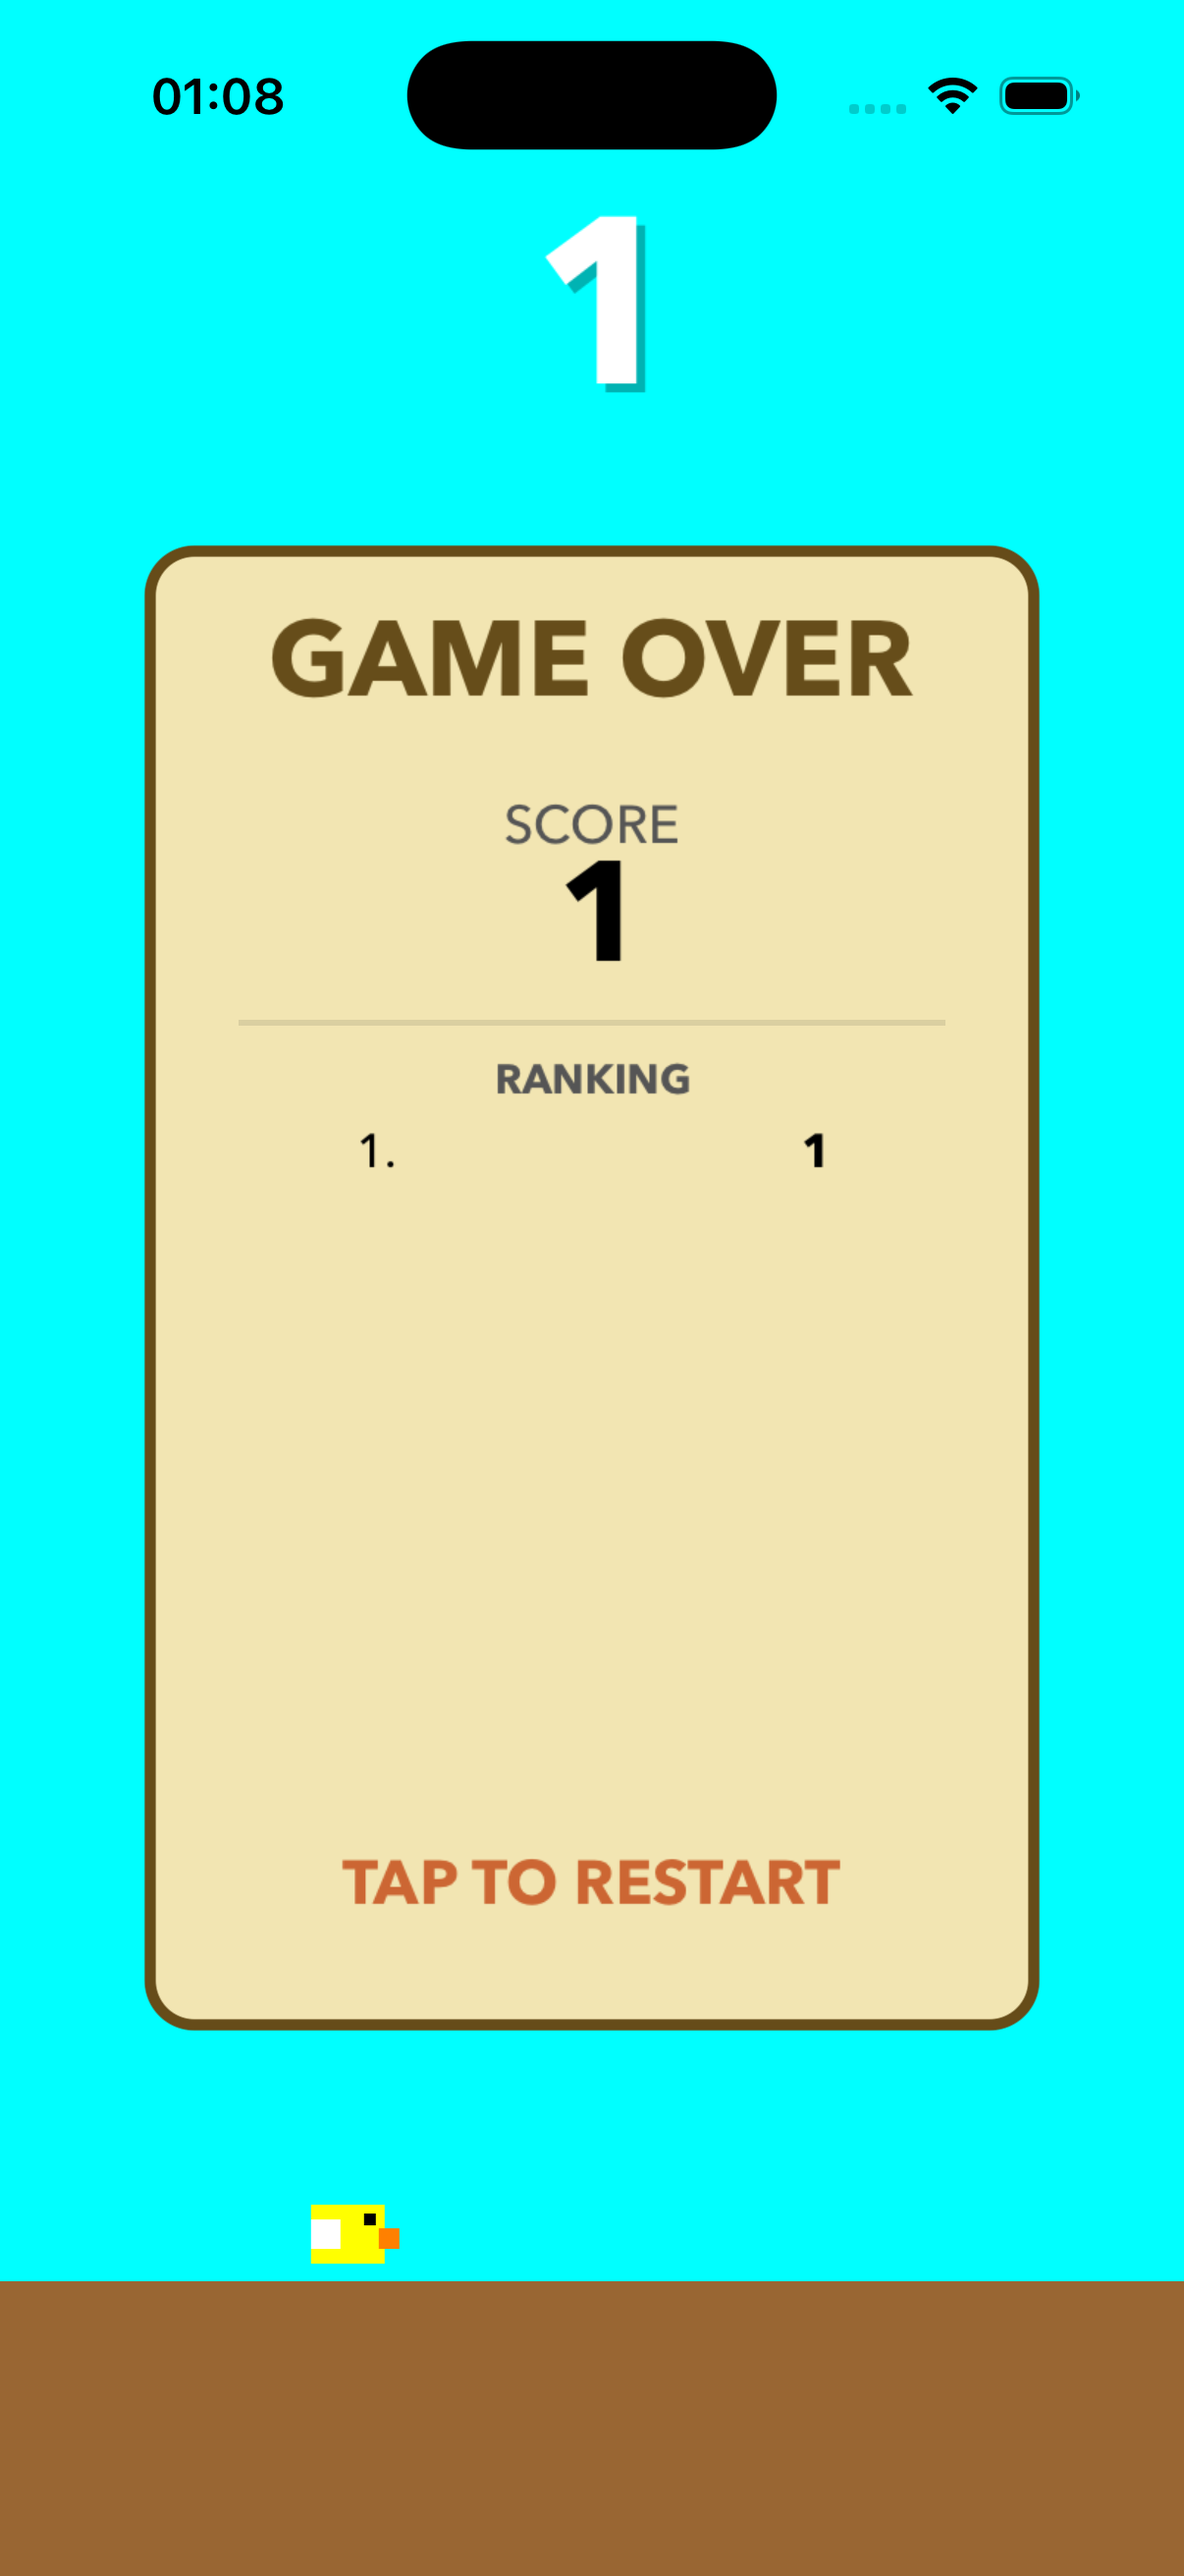
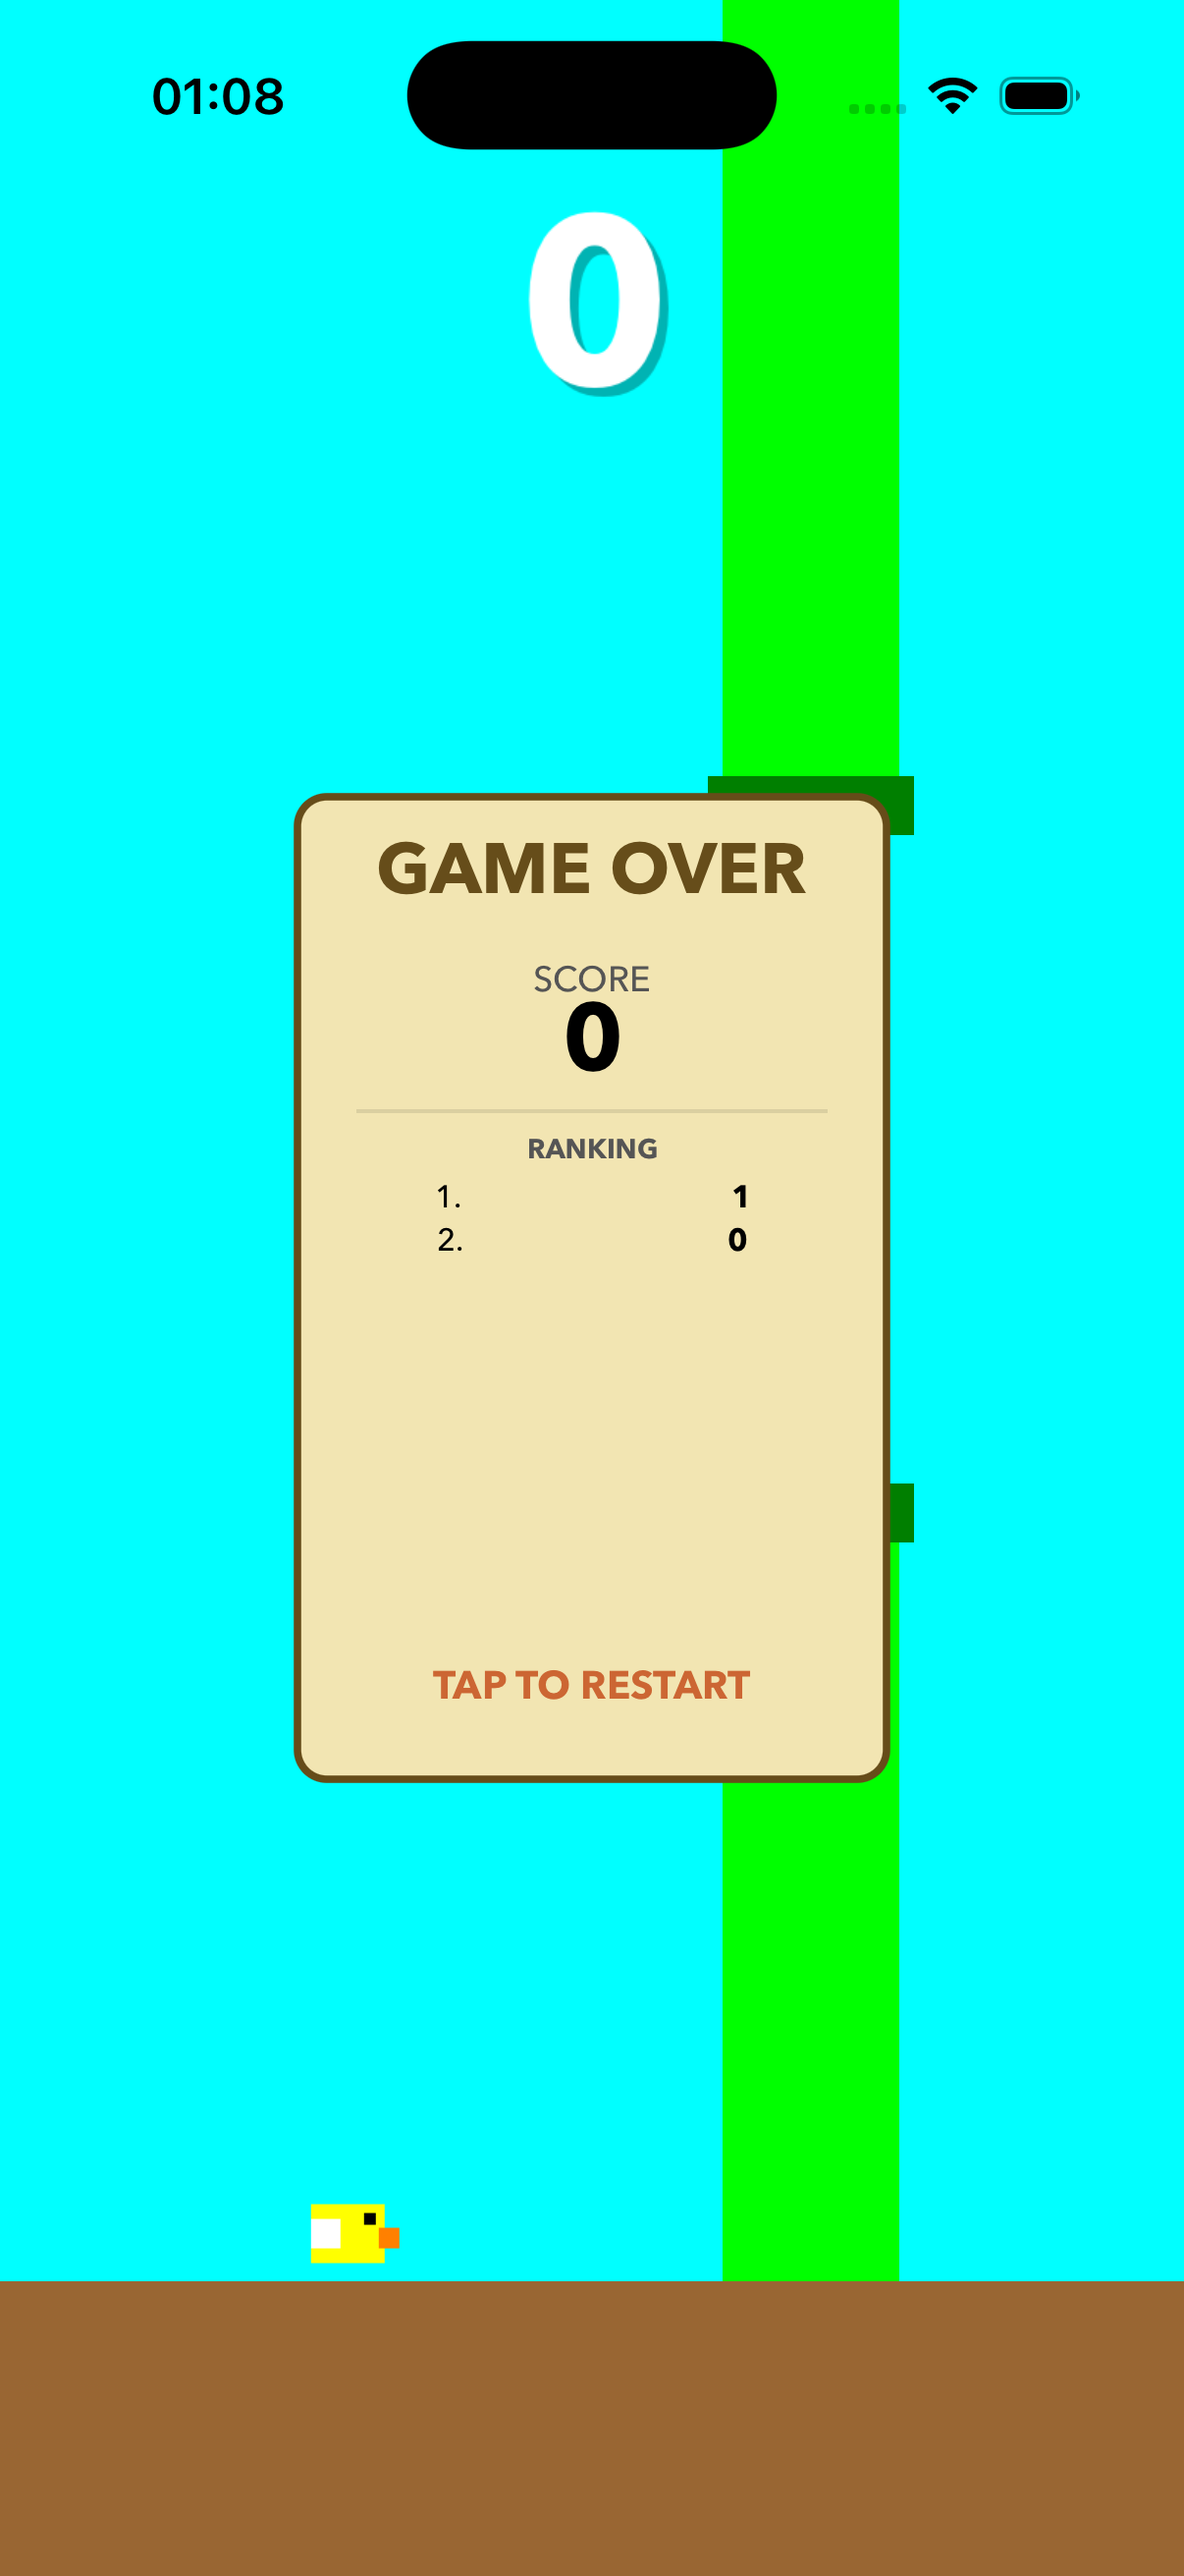
Verified screenshots v6 for v1.2.1

diff --git a/Sources/FlappyBird/GameScene.swift b/Sources/FlappyBird/GameScene.swift
@@ -26,6 +26,11 @@ class GameScene: SKScene, SKPhysicsContactDelegate {
         setupScoreLabel()
         
         showStartMessage()
+        
+        // Auto-start for screenshots/accessibility
+        DispatchQueue.main.asyncAfter(deadline: .now() + 5) { [weak self] in
+            self?.startGame()
+        }
     }
     
     func showStartMessage() {
@@ -177,15 +182,20 @@ class GameScene: SKScene, SKPhysicsContactDelegate {
         if isGameOver {
             resetGame()
         } else if !isStarted {
-            isStarted = true
-            self.physicsWorld.speed = 1
-            childNode(withName: "startMessage")?.removeFromParent()
-            startPipes()
-            bird.physicsBody?.applyImpulse(CGVector(dx: 0, dy: 11))
+            startGame()
         } else {
             bird.physicsBody?.velocity = CGVector(dx: 0, dy: 0)
             bird.physicsBody?.applyImpulse(CGVector(dx: 0, dy: 11)) // Reduced impulse
         }
+    }
+    
+    func startGame() {
+        if isStarted { return }
+        isStarted = true
+        self.physicsWorld.speed = 1
+        childNode(withName: "startMessage")?.removeFromParent()
+        startPipes()
+        bird.physicsBody?.applyImpulse(CGVector(dx: 0, dy: 11))
     }
     
     func didBegin(_ contact: SKPhysicsContact) {
